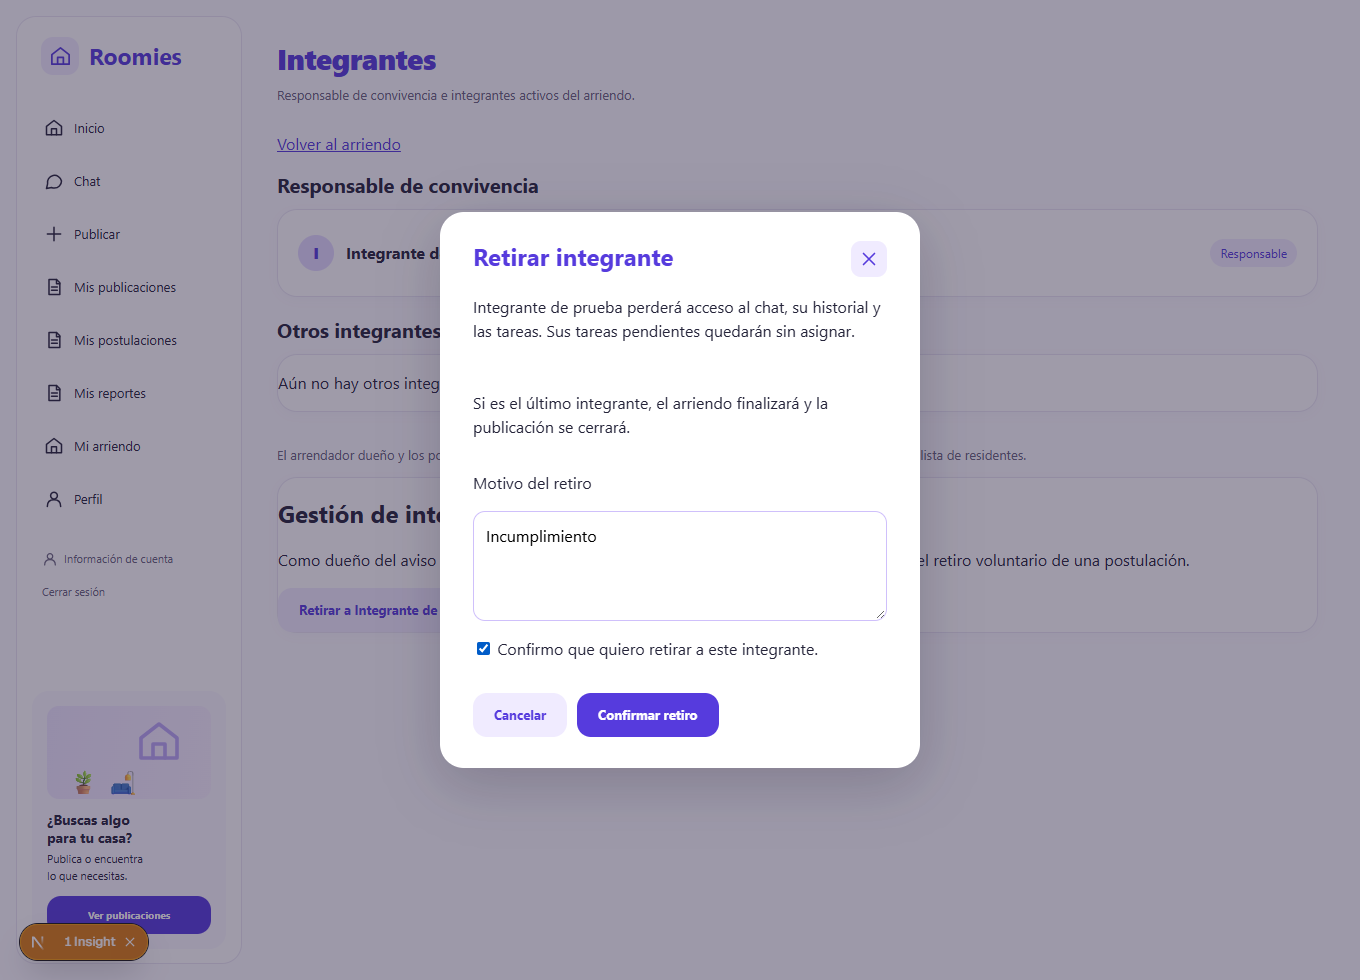
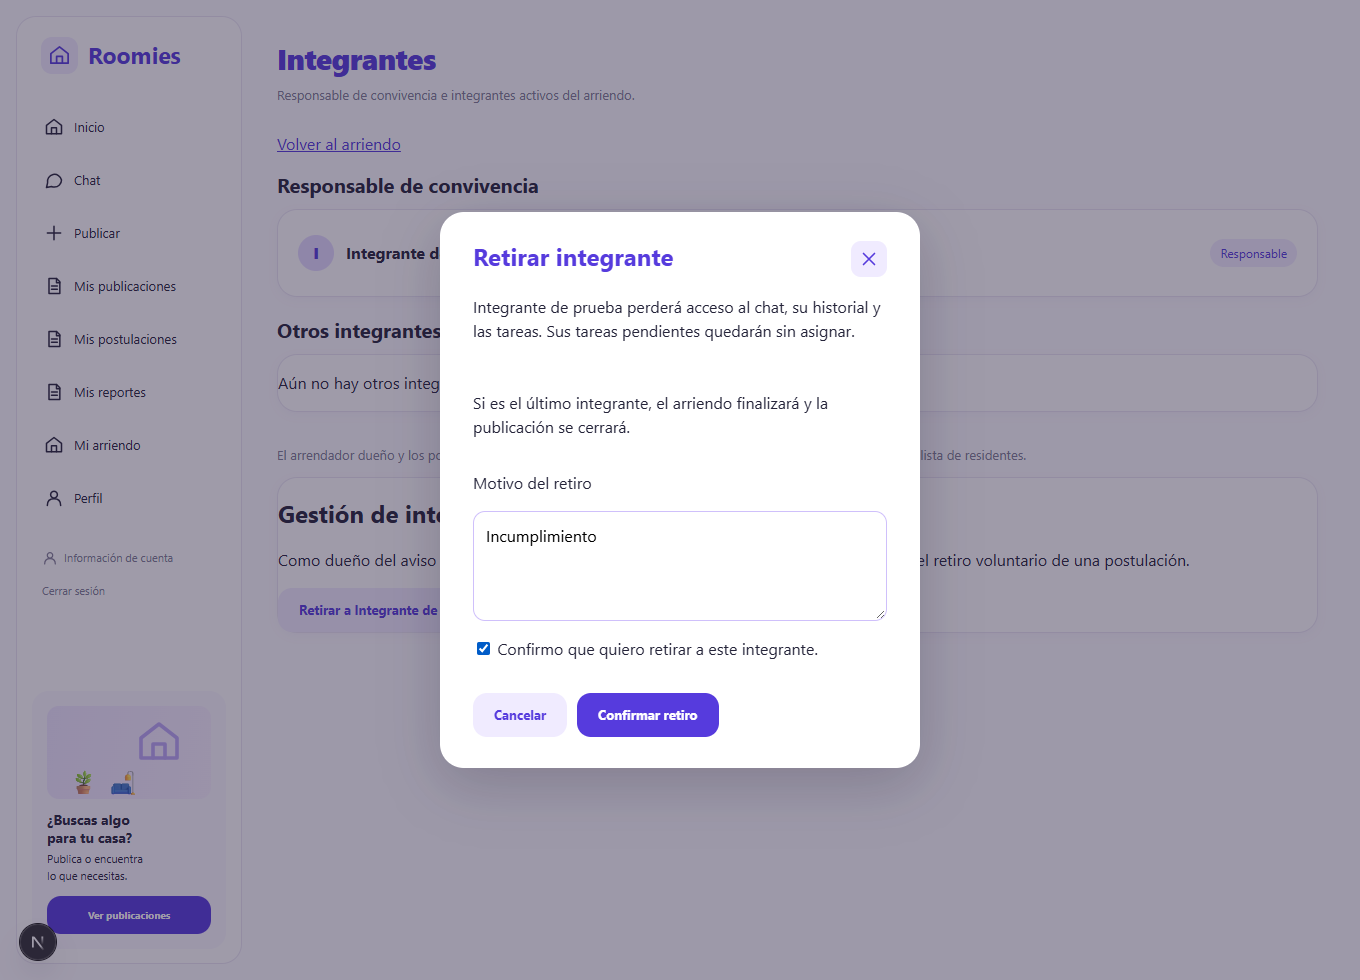
scrum-121

diff --git a/taller-de-integra-dos/roomies-web/backend/services/convivencia-mensajeria-service/tests/test_retiro.py b/taller-de-integra-dos/roomies-web/backend/services/convivencia-mensajeria-service/tests/test_retiro.py
@@ -38,22 +38,22 @@ def test_doble_click_concurrente_libera_una_plaza(service,ports,repository):
         audit = c.execute("SELECT * FROM convivencia_mensajeria.retiro").fetchone()
         assert audit["id_actor"] == 1 and audit["fecha"] is not None and audit["motivo"] == REASON["motivo"]
     with pytest.raises(ServiceError): repository.mine(2)
-    for action in [lambda:repository.messages(1,2,None,20),lambda:repository.send_message(1,2,"Test","Texto",uuid4()),lambda:repository.tasks(1,2)]:
+    for action in [lambda:repository.messages(1,2,None,20),lambda:repository.send_message(1,2,"Test","Texto",uuid4()),lambda:repository.list_tasks(1,2,None,None,20)]:
         with pytest.raises(ServiceError) as error: action()
         assert error.value.status == 403
 
 
 def test_pendientes_reasignables_completadas_intactas(service,ports,repository):
     setup(service,ports)
-    pending = repository.create_task(1,3,{"titulo":"Aseo","descripcion":None,"id_asignado":2})
-    completed = repository.create_task(1,3,{"titulo":"Compra","descripcion":None,"id_asignado":2})
-    repository.update_task(completed["id_tarea"],2,complete=True)
+    pending = repository.create_task(1,3,"Aseo",None,2)
+    completed = repository.create_task(1,3,"Compra",None,2)
+    repository.complete_task(completed["id_tarea"],2)
     service.expel(1,1,REASON)
-    rows = {task["id_tarea"]:task for task in repository.tasks(1,3)}
+    rows = {task["id_tarea"]:task for task in repository.list_tasks(1,3,None,None,20)[0]}
     assert rows[pending["id_tarea"]]["id_asignado"] is None
     assert rows[completed["id_tarea"]]["id_asignado"] == 2
     assert rows[completed["id_tarea"]]["estado"] == "Completada"
-    assert repository.update_task(pending["id_tarea"],3,assigned=3)["id_asignado"] == 3
+    assert repository.reassign_task(pending["id_tarea"],3,3)["id_asignado"] == 3
     assert all(not member["es_responsable"] for member in repository.members(1,3))
 
 

diff --git a/taller-de-integra-dos/roomies-web/backend/services/convivencia-mensajeria-service/tests/test_tasks.py b/taller-de-integra-dos/roomies-web/backend/services/convivencia-mensajeria-service/tests/test_tasks.py
@@ -49,10 +49,10 @@ def test_permissions_invalid_assignee_and_retirement(tasks_http):
     assert client.patch(f"/api/tareas/{pending['id_tarea']}", json={"id_asignado": 2}).status_code == 403
     actor.user_id = 2
     rows = client.get(url).json()["items"]
-    assert rows[1]["id_asignado"] is None
-    assert rows[0]["estado"] == "Completada"
+    assert next(row for row in rows if row["id_tarea"] == pending["id_tarea"])["id_asignado"] is None
+    assert next(row for row in rows if row["id_tarea"] == task_id)["estado"] == "Completada"
     path = f"/api/tareas/{pending['id_tarea']}"
-    assert client.patch(path, json={"id_asignado": 3}).status_code == 403
+    assert client.patch(path, json={"id_asignado": 3}).status_code == 422
     assert client.patch(path, json={"titulo": "Fuera de D04", "id_asignado": 2}).status_code == 422
     assert client.patch(path, json={"id_asignado": 2}).json()["id_asignado"] == 2
     assert client.patch(path + "/estado", json={"estado": "Completada"}).status_code == 200
@@ -80,7 +80,7 @@ def test_filtered_pagination_three_pages_and_actor_bound_cursor(tasks_http):
         cursor = page["siguiente_cursor"]
         if cursor is None:
             break
-    assert ids == [1, 3, 5, 7, 9]
+    assert ids == [9, 7, 5, 3, 1]
     first = client.get(url, params={"limite": 2}).json()
     actor.user_id = 3
     assert client.get(url, params={"cursor": first["siguiente_cursor"]}).status_code == 422

diff --git a/taller-de-integra-dos/roomies-web/backend/services/convivencia-mensajeria-service/tests/test_tareas_cross_client.py b/taller-de-integra-dos/roomies-web/backend/services/convivencia-mensajeria-service/tests/test_tareas_cross_client.py
@@ -20,7 +20,7 @@ from fastapi import Header, HTTPException
 import psycopg
 import uvicorn
 
-from app.main import create_app, confirmed_actor
+from app.main import create_app, confirmed_actor, access_token
 from .test_tareas_sql import rental  # fixture SQL compartida, no datos remotos
 
 
@@ -58,6 +58,7 @@ def test_bff_gateway_sql_y_adaptador_movil_cruzados(service, rental, migrated_da
         return SimpleNamespace(user_id=actors[authorization])
 
     application.dependency_overrides[confirmed_actor] = fixture_actor
+    application.dependency_overrides[access_token] = lambda: "e04.fixture.token"
     # Nombre distinto para no colisionar con el paquete app de Convivencia.
     package = root / "backend/api-gateway/app"
     spec = importlib.util.spec_from_file_location("e04_fixture_gateway", package / "__init__.py",

diff --git a/taller-de-integra-dos/roomies-web/backend/services/convivencia-mensajeria-service/app/models.py b/taller-de-integra-dos/roomies-web/backend/services/convivencia-mensajeria-service/app/models.py
@@ -85,25 +85,6 @@ class MessagePage(BaseModel):
     siguiente_cursor: str | None
 
 
-class TaskCreate(BaseModel):
-    model_config = ConfigDict(extra="forbid")
-    titulo: Annotated[str, Field(strict=True, min_length=1, max_length=120)]
-    descripcion: Annotated[str, Field(strict=True, max_length=1000)] = ""
-    id_asignado: PositiveId | None = None
-
-    @field_validator("titulo")
-    @classmethod
-    def title_not_blank(cls, value: str):
-        if not value.strip():
-            raise ValueError("El título es obligatorio.")
-        return value.strip()
-
-
-class TaskAssign(BaseModel):
-    model_config = ConfigDict(extra="forbid")
-    id_asignado: PositiveId
-
-
 class TaskState(BaseModel):
     model_config = ConfigDict(extra="forbid")
     estado: Literal["Completada"]

diff --git a/taller-de-integra-dos/roomies-web/backend/services/convivencia-mensajeria-service/tests/test_tareas_sql.py b/taller-de-integra-dos/roomies-web/backend/services/convivencia-mensajeria-service/tests/test_tareas_sql.py
@@ -47,7 +47,7 @@ def test_tarea_creada_reasignada_y_completada_persiste_en_otra_conexion(reposito
     with psycopg.connect(migrated_database) as connection:
         assert connection.execute("SELECT estado,fecha_completada IS NOT NULL FROM convivencia_mensajeria.tarea WHERE id_tarea=%s",
             (task["id_tarea"],)).fetchone() == ("Completada", True)
-    status(422, lambda: repository.reassign_task(task["id_tarea"], 2, 2))
+    status(409, lambda: repository.reassign_task(task["id_tarea"], 2, 2))
 
 
 def test_filtro_sql_antes_del_limite_y_tres_paginas_sin_duplicados(repository, rental):
